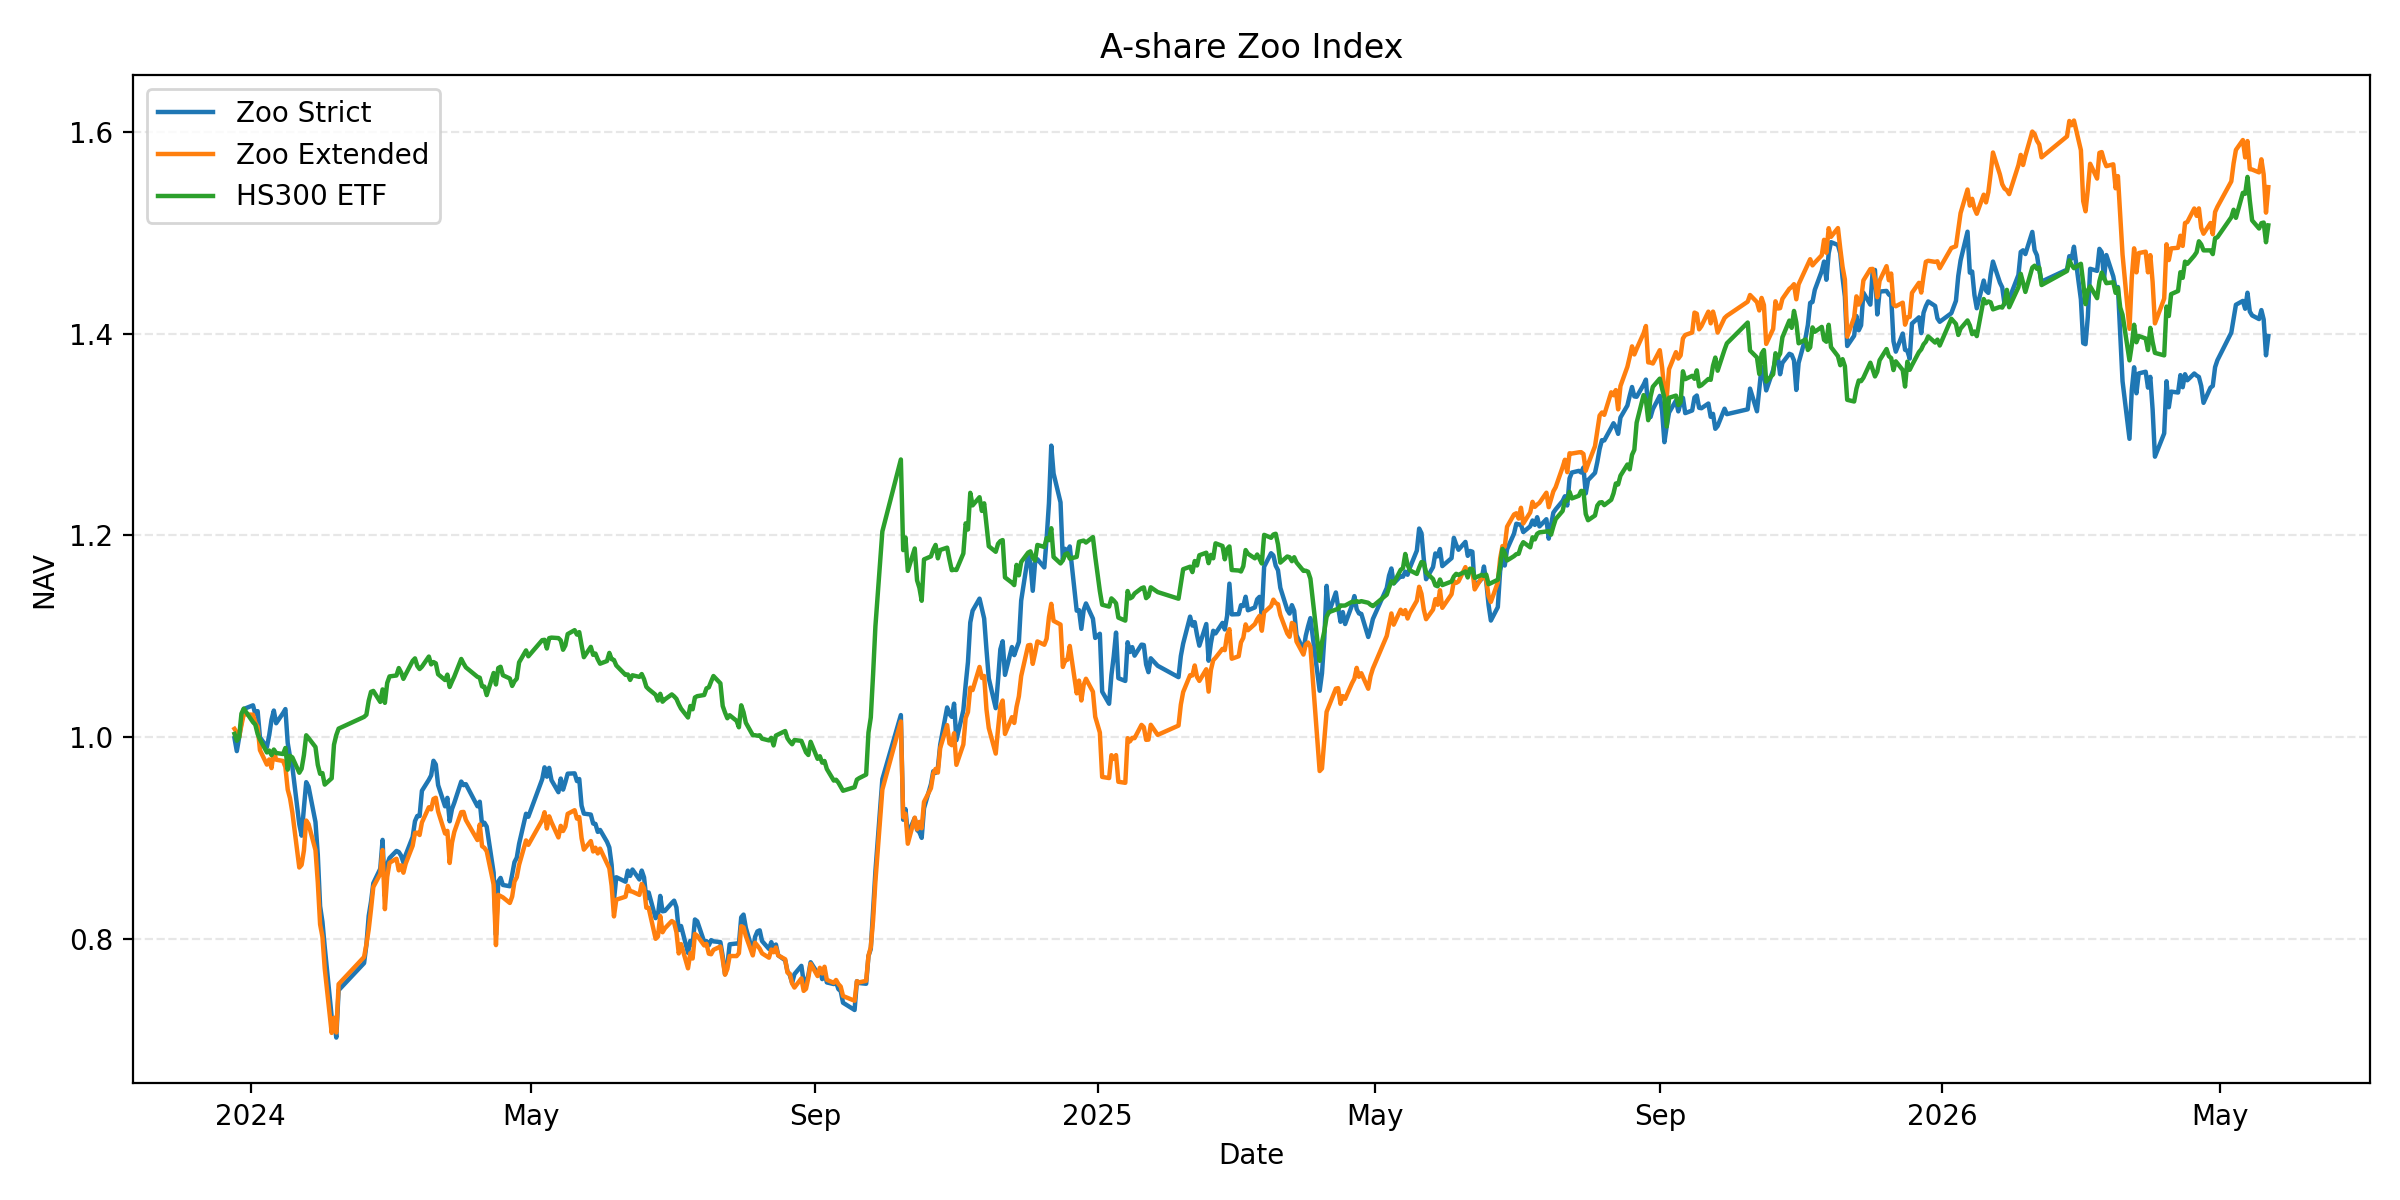
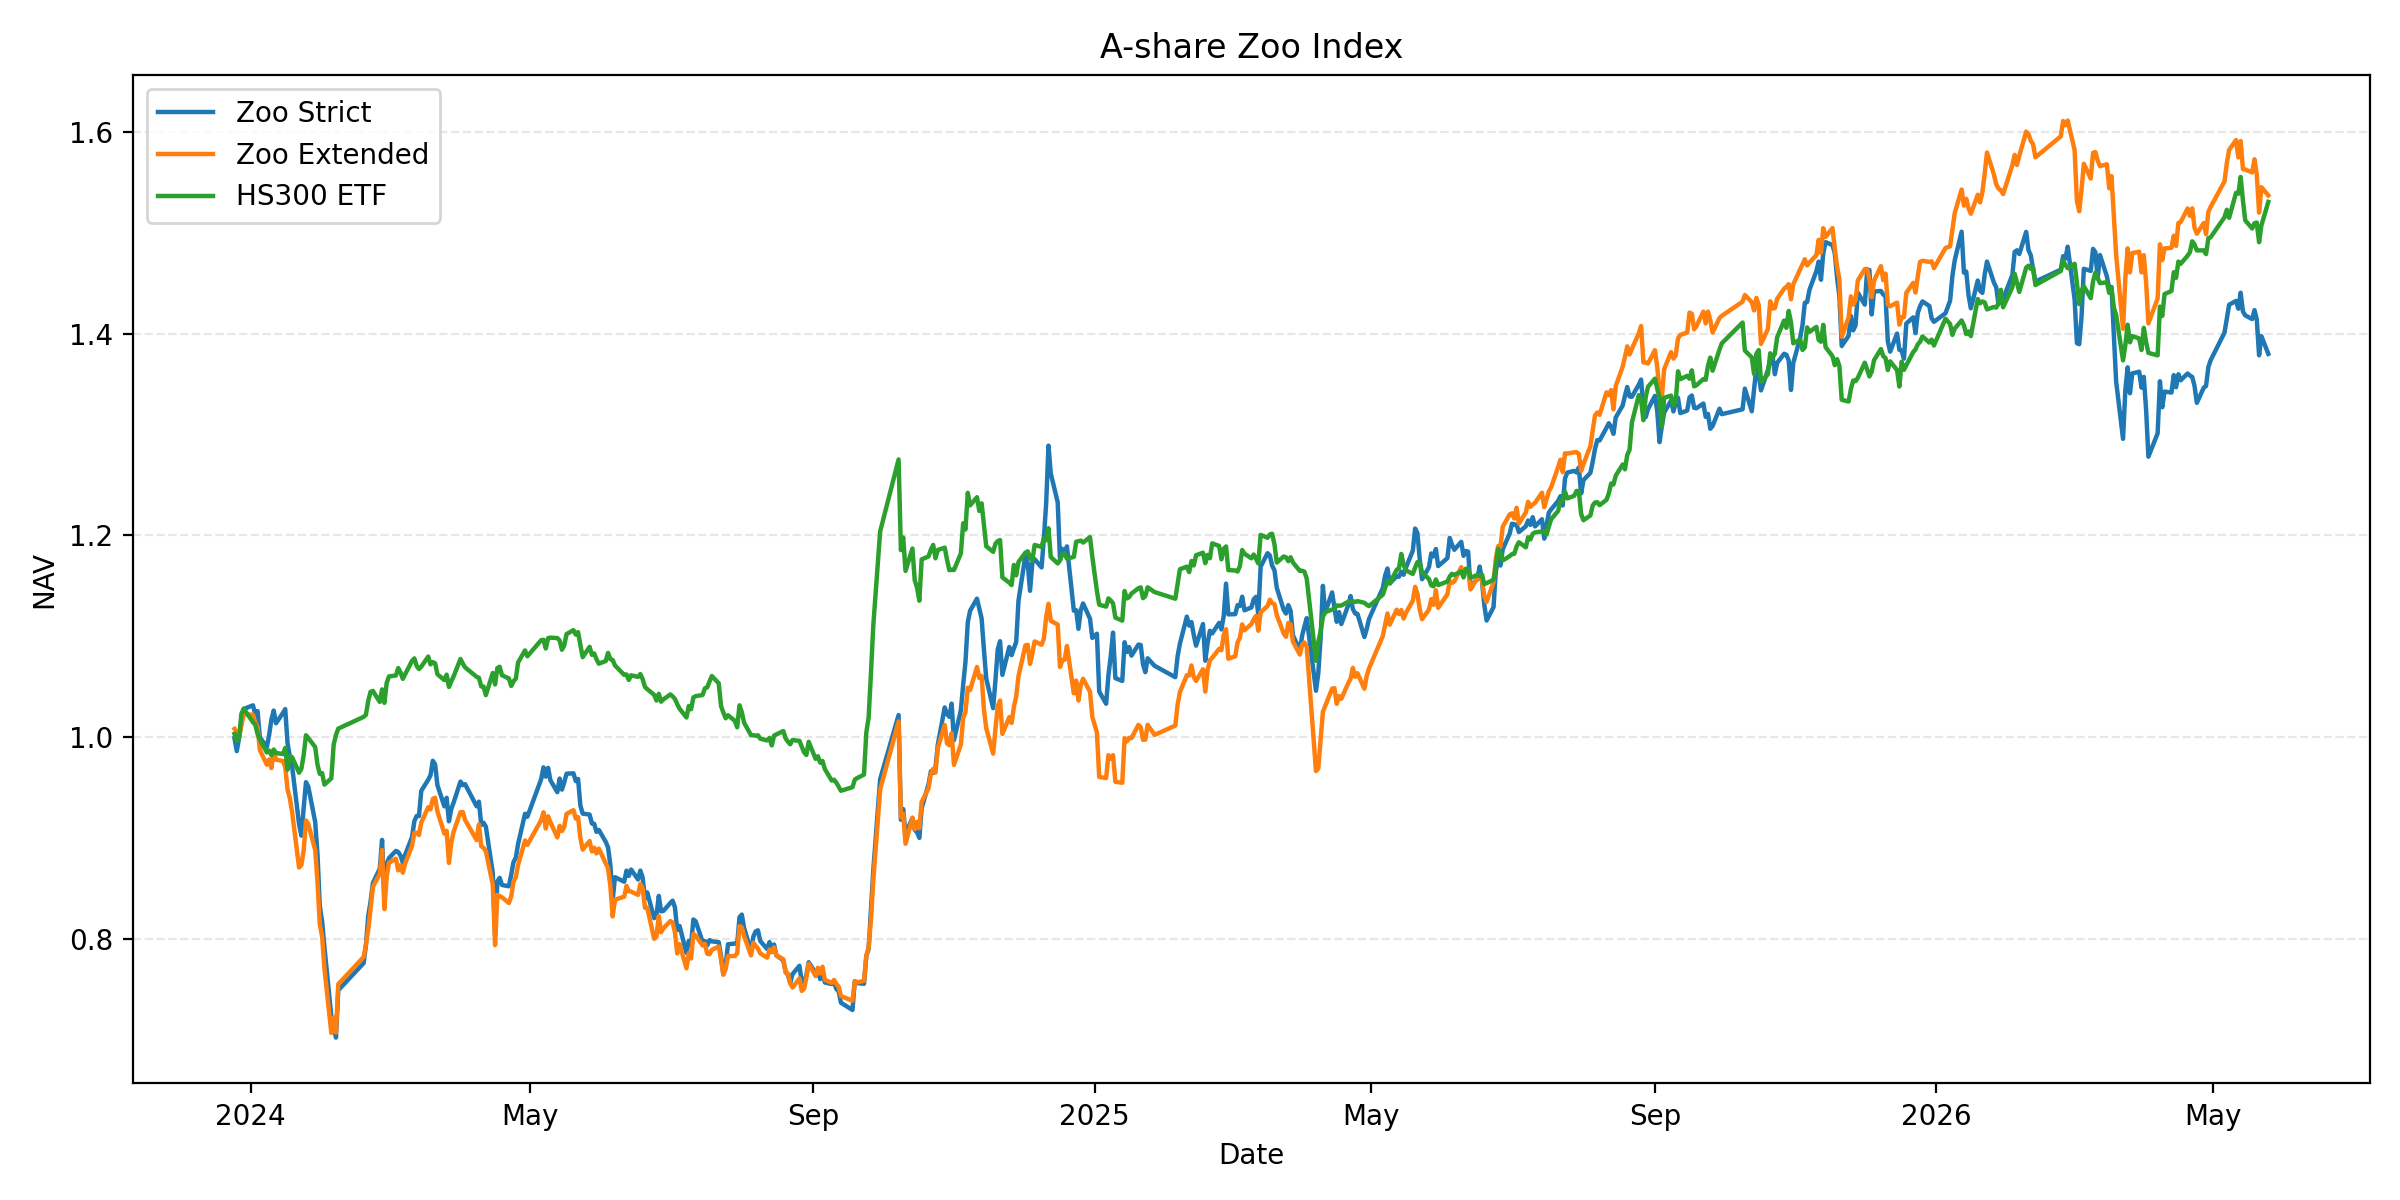
daily update

diff --git a/docs/index.html b/docs/index.html
@@ -85,26 +85,26 @@
 <body>
   <header>
     <h1>A股动物园指数</h1>
-    <div class="subtitle">最近更新：20260522</div>
+    <div class="subtitle">最近更新：20260525</div>
   </header>
   <main>
     <section class="cards">
       <div class="card">
         <h3>严格动物园</h3>
-        <div class="stat">1.3977</div>
-        <div class="stat"><small>今日涨跌</small> 1.38%</div>
+        <div class="stat">1.3801</div>
+        <div class="stat"><small>今日涨跌</small> -1.26%</div>
         <div class="stat"><small>成分股</small> 11/11</div>
       </div>
       <div class="card">
         <h3>扩展动物园</h3>
-        <div class="stat">1.5455</div>
-        <div class="stat"><small>今日涨跌</small> 1.66%</div>
+        <div class="stat">1.5373</div>
+        <div class="stat"><small>今日涨跌</small> -0.53%</div>
         <div class="stat"><small>成分股</small> 157/157</div>
       </div>
       <div class="card">
         <h3>HS300 ETF</h3>
-        <div class="stat">1.5076</div>
-        <div class="stat"><small>今日涨跌</small> 1.12%</div>
+        <div class="stat">1.5309</div>
+        <div class="stat"><small>今日涨跌</small> 1.54%</div>
       </div>
     </section>
     <section class="chart">
